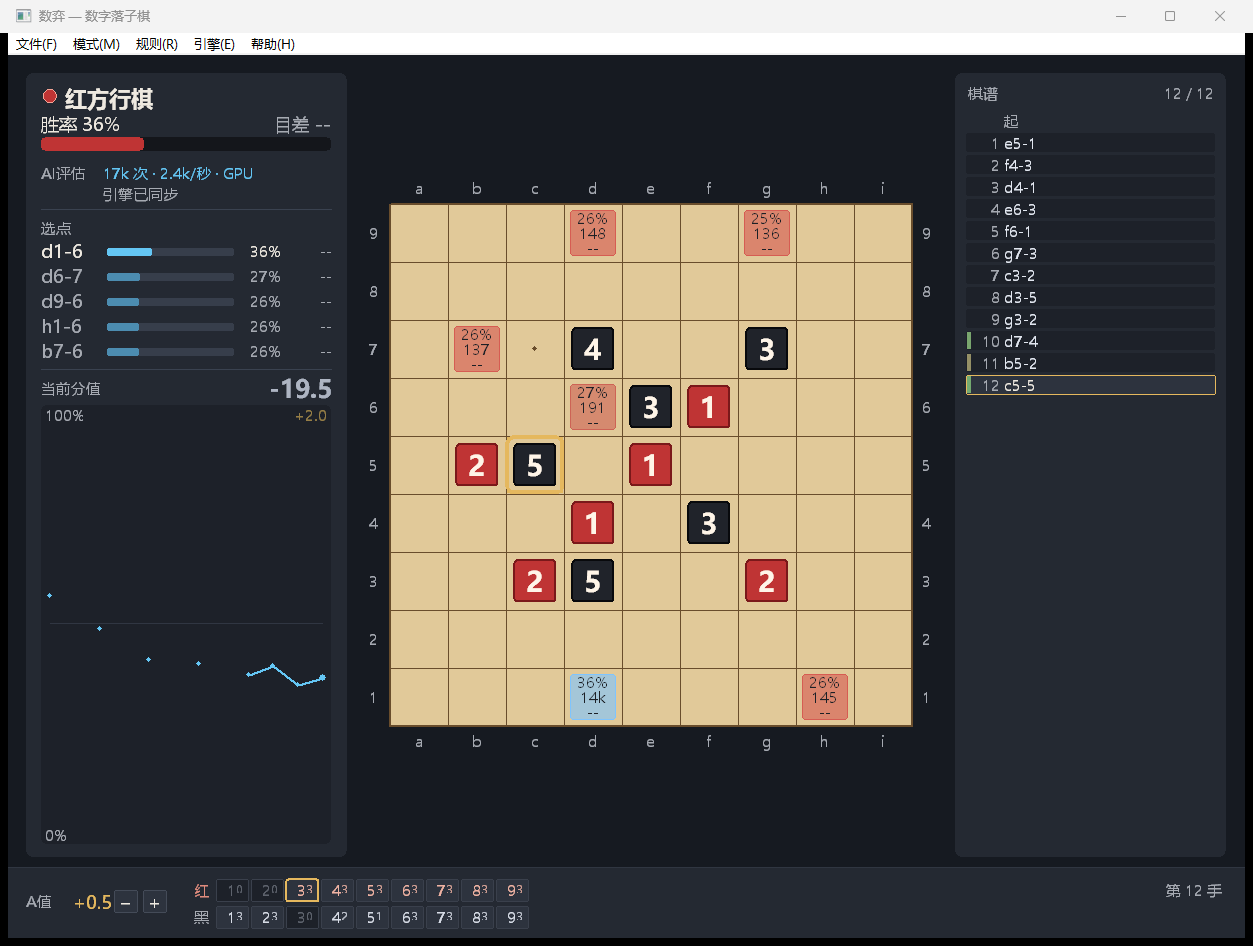
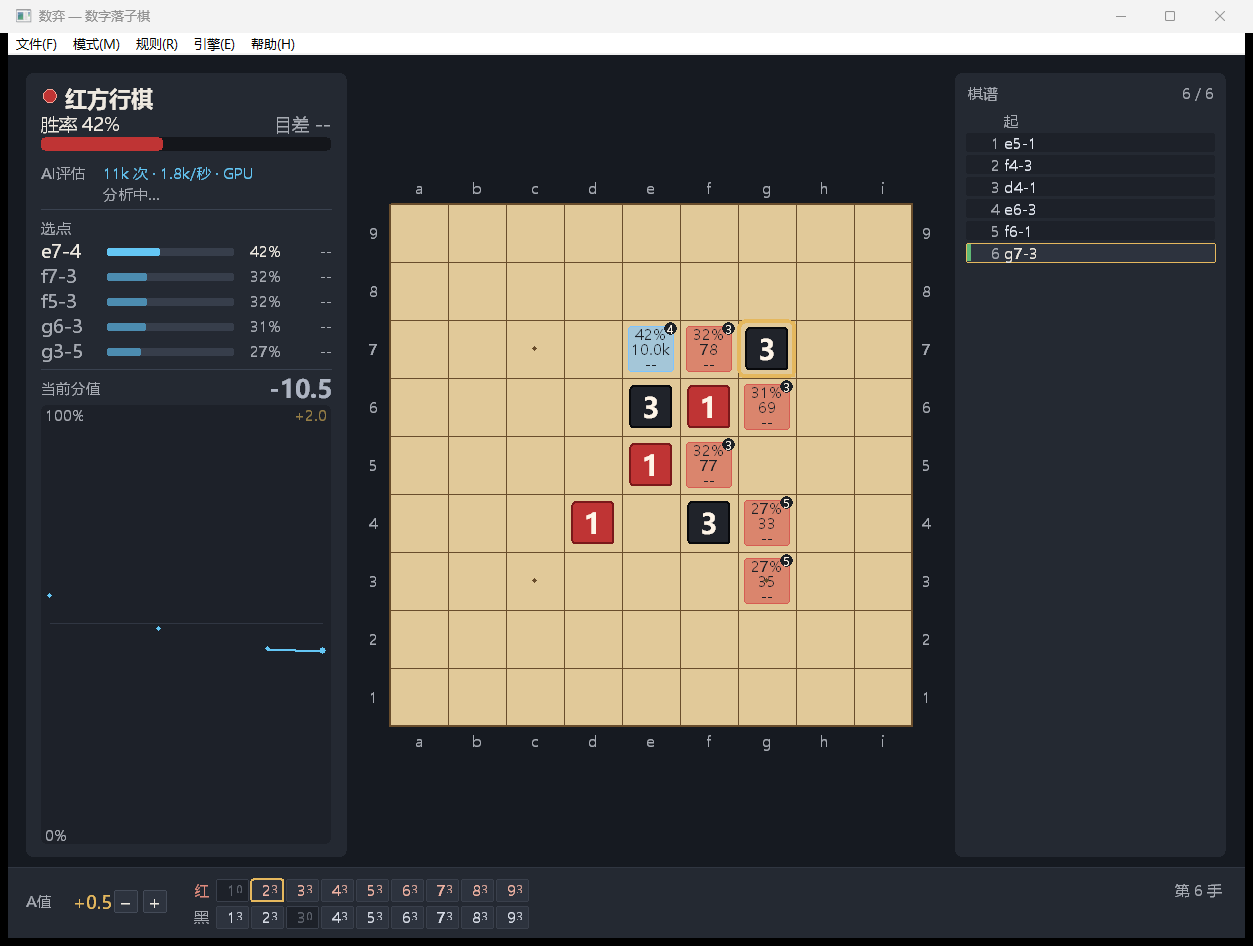
ui: the mark says which piece, and analysis accumulates by run instead of by size
**The board marks did not say which piece to play.** A mark sits on a cell and the
same cell takes any of nine numbers, so "42%" was half a move.  The number is now
a badge on the mark's top-right corner, the way the remaining count sits on the
chips: 42% with a small 3 means "e5-3, 42%".

**The replacement rule compared numbers from different trees.** "A new snapshot
replaces the cached one only when it searched at least as much" is only meaningful
inside one analysis run: a run is one search tree, and the tree is gone as soon as
the board is rebuilt.  Crossing runs, the rule kept the old, larger figure on the
panel -- 14,000 visits shown while the engine was at 300, and the number never
moving -- which is the opposite of additive.  Runs are tracked now: a snapshot may
be refused only when it is smaller *and* from the same run; otherwise the newer
numbers win, because they are the ones the search has.  Loaded numbers belong to no
run, so they give way to the first live one, as they should.

**Analysis continues where the tree allows.** Playing a move already sent `play`,
and the protocol carries the subtree of that move into the new position, so the
child's analysis continues from what the parent's search spent on it.  Stepping
forward in the record now does the same thing instead of rebuilding the board from
the root; going back still has to rebuild, and then the numbers honestly start
again.
[…]

diff --git a/ui/src/ui_win32.cpp b/ui/src/ui_win32.cpp
@@ -124,6 +124,11 @@ Position g_position;
 // Which record node the running analysis belongs to (-1: none).  The analysis is
 // cached *on that node*, so navigating away and back shows the same numbers.
 int g_analysisNode = -1;
+// Which analysis run `g_analysisNode` belongs to.  One run is one search tree:
+// it starts when the tree does and lives until the engine's board is rebuilt
+// (`clear_board`, a new position, a new process).  Visits are only comparable
+// inside a run, so nothing may be refused across two of them.
+int g_analysisRun = 0;
 
 constexpr double kDefaultAValue = 0.5;
 constexpr double kAValueStep = 0.5;
@@ -204,6 +209,7 @@ void openSettings();
 void goToNode(int id);
 int treeScrollFor(int id);
 void sendEngineStopIfRunning();
+bool sendEngine(const std::string& line);
 void startEngineAnalysis();
 bool loadRecordFromPath(const std::wstring& path);
 bool loadRecordFromText(const std::string& text);
@@ -388,25 +394,49 @@ void noteComputerToMove() {
     }
 }
 
-// Navigation: the same position, another node.  The engine follows by replaying
-// the line, and the panel shows that node's cached analysis instead of whatever
-// happened to be on screen before.
+// The move in the engine's own spelling ("a4 2"), the form `play` takes.
+std::string playCommand(Player side, Move move) {
+    std::string line = std::string("play ") + (side == Player::Red ? "red" : "black") + " ";
+    if (isPass(move)) return line + "pass";
+    return line + squareName(move.cell) + " " + std::to_string(static_cast<int>(move.number));
+}
+
+// Navigation: the same record, another node.  The panel shows that node's cached
+// analysis instead of whatever happened to be on screen before.
+//
+// Stepping forward is a *move* for the engine, not a new position: `play` lets it
+// carry the subtree it just searched into the child, so an analysis started there
+// continues from the visits the parent's search already spent on it.  Going up (or
+// jumping across the tree) has to rebuild the board from the root, which throws
+// the tree away -- the numbers then start again and the panel says so.
 void goToNode(int id) {
     if (!g_record.contains(id)) return;
     if (id == g_record.current()) {
         refresh();
         return;
     }
-    if (g_engineClient.running()) {
-        sendEngineStopIfRunning();
-    }
+    const int from = g_record.current();
+    sendEngineStopIfRunning();
+    // The move is spelled before the record moves: the side to move at the child
+    // is the opponent's, so depth is what says whose move it was.
+    const int ply = g_record.depth(id) - 1;
+    const Player mover = (ply % 2 == 0) ? Player::Red : Player::Black;
+    const Move move = g_record.node(id).move;
+    const bool forward = g_engineClient.running() && g_record.parentOf(id) == from;
     clearAnalysisState();
     g_record.select(id);
     rebuildPosition();
     g_enginePending = false;
     g_pendingReplyId.clear();
     g_thinking = false;
-    if (g_engineChoice != EngineChoice::Off && g_engineReady) syncEnginePosition();
+    if (g_engineChoice != EngineChoice::Off && g_engineReady) {
+        if (forward) {
+            sendEngine(playCommand(mover, move));
+            ++g_analysisRun;
+        } else {
+            syncEnginePosition();
+        }
+    }
     noteComputerToMove();
     refresh(true);
 }
@@ -419,11 +449,17 @@ void sendEngineStopIfRunning() {
 // position is rebuilt from it, then the engine is told -- one order everywhere,
 // so the three can never drift apart.
 void recordMove(Move move, Player mover) {
-    // Analysis is a mode, not a one-off: after a move it continues on the new
-    // position unless the user had stopped it.
-    const bool wasAnalyzing = g_analysisOn;
+    // Analysis is a mode, not a one-off: it continues on the new position unless
+    // the user had stopped it.  A run that reached the visit cap is not a stop --
+    // the new position has its own budget, and has not spent a visit of it.
+    const bool wasAnalyzing = g_analysisOn || g_analysisFinished;
     const int from = g_record.current();
     int id = g_record.play(from, move);
+    // `play` may carry the subtree of this move over into the new position, in
+    // which case the analysis continues where the parent's search left it.  It may
+    // also rebuild the tree.  Either way the numbers from here on belong to a new
+    // run, and are compared with that run's own figures, not with the old ones.
+    ++g_analysisRun;
     if (g_engineClient.running()) {
         g_engineClient.send("stop");
         g_enginePending = false;
@@ -502,11 +538,10 @@ void applyEngineAnalysis(int node, const std::string& payload) {
         return;
     }
     g_engineMessage = g_enginePending ? L"引擎思考中…" : L"分析中…";
-    // Analysis is additive: a snapshot replaces the cached one only when it
-    // searched at least as long.  Otherwise a restart (or a freshly loaded record)
-    // would blank the numbers the user just opened.
-    if (!g_record.contains(node) || !analysisOutranks(view, g_record.node(node).analysis)) return;
-    g_record.setAnalysis(node, std::move(view));
+    if (!g_record.contains(node)) return;
+    RecordNode& target = g_record.node(node);
+    if (!analysisReplaces(view, g_analysisRun, target.analysis, target.run)) return;
+    g_record.setAnalysis(node, std::move(view), g_analysisRun);
 }
 
 void startEngineAnalysis(int visits) {
@@ -553,6 +588,9 @@ void syncEnginePosition() {
     g_analysisFinished = false;
     sendEngine("stop");
     sendEngine("clear_board");
+    // The engine forgets its tree here, so every number it sends from now on
+    // belongs to a new run.
+    ++g_analysisRun;
     for (int id : g_record.line(g_record.current())) {
         const Move move = g_record.node(id).move;
         // The side alternates from Red at the root; a pass is a move too.
@@ -1732,6 +1770,16 @@ void drawAnalysisMarks(HDC dc, const Layout& layout, const std::vector<int>& ran
         const int cy = board.top + (8 - yOf(cellIndex)) * cell + cell / 2;
         const RECT mark{cx - radius, cy - radius, cx + radius, cy + radius};
         roundRect(dc, mark, corner, mixColor(kBoard, colour, 0.62), colour, std::max(1, scale(1)));
+        // Which piece to play is half of the move: the same cell takes nine
+        // numbers, and a mark that says "42%" says nothing about which of them.
+        // The number sits on the top-right corner, raised, the way the count sits
+        // on the chips: a superscript, not a fourth line.
+        const int dot = std::max(scale(6), radius / 3);
+        const int dotX = cx + radius - dot / 2;
+        const int dotY = cy - radius + dot / 2;
+        filledCircle(dc, dotX, dotY, dot, RGB(28, 32, 38));
+        drawTextAt(dc, std::to_wstring(info.move.number), dotX - dot, dotY - dot, dot * 2, dot * 2,
+                   g_fontTiny, RGB(255, 245, 232));
         int y = cy + textTop;
         drawTextAt(dc, formatWinRate(rate), cx - radius, y, radius * 2, rowHeight, g_fontSmall,
                    RGB(28, 32, 38));
@@ -2561,13 +2609,16 @@ void showGuide() {
     text += L"操作\n\n";
     text += L"· 数字键 1–9：选择落子的数字（也可以点下方棋子）。\n";
     text += L"· 点击棋盘：落子。\n";
-    text += L"· 空格：开始 / 暂停分析；分析到上限后再按一次会继续，不再限量。\n";
+    text += L"· 空格：开始 / 暂停分析；分析到上限后再按一次会继续，不再限量。开着分析落子，"
+            L"会在新局面自动接着算（到过上限也一样）。\n";
     text += L"· ↑ / ↓：在棋谱里上一步 / 下一步（↓ 走主干）。翻棋谱不会让电脑落子，"
             L"要它走一步用 引擎 → 让电脑走一步。\n";
     text += L"· Delete：删除当前着法及其后续，连同它们的分析。\n";
     text += L"· Ctrl+S：保存棋谱（等同 文件 → 保存棋谱…）。\n";
     text += L"· 左侧面板是分析的产物，右侧是棋谱：每一着一行，换个走法会在那一手后面缩进出一段"
             L"变着，回到旧行时原来的分析还在。\n";
+    text += L"· 棋盘上每个分析标记：胜率 / 访问数 / 预期终局分，右上角的上标是要落的那颗子的数字"
+            L"（同一个格子能下九个数字）。\n";
     text += L"· 棋谱每行左边的小色块是这一步相对上一步的评估：蓝 = 比之前明显更好，"
             L"绿 = 不差，红 = 变差。\n";
     text += L"· 分析会一起存进棋谱；载入棋谱时，每个局面的分析跟着回来。\n";

diff --git a/ui/tests/test_engine_view.cpp b/ui/tests/test_engine_view.cpp
@@ -191,26 +191,29 @@ void testDistinctSymmetricCells() {
           "an asymmetric position keeps every cell");
 }
 
-// The window keeps what the engine said about a position, so a snapshot has to
-// earn the right to replace it: re-opening a record or restarting the engine
-// begins again from a handful of visits.
-void testAnalysisOutranks() {
+// Visits are only comparable inside one analysis run: a run is one search tree, and
+// a run that starts after the board was rebuilt begins again from zero.  Refusing a
+// smaller snapshot across runs froze the panel on 14,000 visits while the engine
+// was at 300.
+void testAnalysisReplaces() {
     EngineAnalysisView cached;
     check(parseAnalysis(kAnalysis, cached, nullptr), "fixture parses");
     EngineAnalysisView richer = cached;
     richer.visits = 4096;
-    check(analysisOutranks(richer, cached), "more visits replaces fewer");
-    check(analysisOutranks(cached, cached), "the same effort replaces itself");
+    check(analysisReplaces(richer, 7, cached, 7), "more visits in the same run replaces fewer");
+    check(analysisReplaces(cached, 7, cached, 7), "the same snapshot replaces itself");
     EngineAnalysisView restart = cached;
     restart.visits = 12;
-    check(!analysisOutranks(restart, cached), "a restart does not blank a richer analysis");
-    check(!analysisOutranks(EngineAnalysisView{}, cached), "an empty snapshot replaces nothing");
+    check(!analysisReplaces(restart, 7, cached, 7), "a smaller snapshot in the same run is stale");
+    check(analysisReplaces(restart, 8, cached, 7), "a new run replaces the old numbers whatever they were");
+    check(analysisReplaces(restart, 8, cached, -1), "numbers from a file belong to no run");
+    check(!analysisReplaces(EngineAnalysisView{}, 8, cached, 7), "an empty snapshot replaces nothing");
     EngineAnalysisView solved = restart;
     solved.proven = true;
-    check(analysisOutranks(solved, cached), "a proof beats a larger sample");
+    check(analysisReplaces(solved, 7, cached, 7), "a proof beats a larger sample in the same run");
     EngineAnalysisView provedCached = cached;
     provedCached.proven = true;
-    check(!analysisOutranks(solved, provedCached), "a proof does not replace a larger proof");
+    check(!analysisReplaces(solved, 7, provedCached, 7), "a proof does not replace a larger proof");
 }
 
 void testBrokenInput() {
@@ -239,7 +242,7 @@ int main() {
     testRankAnalysisCells();
     testRankTiedAnalysisCells();
     testDistinctSymmetricCells();
-    testAnalysisOutranks();
+    testAnalysisReplaces();
     testBrokenInput();
     testMoveTokens();
     if (failures == 0) std::printf("engine view tests passed\n");

diff --git a/ui/include/engine_view.h b/ui/include/engine_view.h
@@ -73,10 +73,12 @@ Move parseMoveToken(const std::string& text);
 // Parses the JSON object of an `info` line (without the `info ` prefix).
 bool parseAnalysis(const std::string& json, EngineAnalysisView& out, std::string* error);
 
-// Whether a fresh snapshot may replace the one cached for the position.  The
-// window keeps what the engine said about a position after the user moves on, so
-// a snapshot that searched less must not overwrite it: re-opening a record that
-// carries numbers, or restarting the engine, begins again from a few visits.
-bool analysisOutranks(const EngineAnalysisView& fresh, const EngineAnalysisView& cached);
+// Whether a fresh snapshot may replace the one cached for a position.  Visits are
+// only comparable inside one analysis run: a run is one search tree, and the tree
+// is gone once the board is rebuilt, so the next run begins again from zero.  A
+// snapshot that searched less is therefore stale only when it comes from the same
+// run; across runs the newer numbers are the ones the search actually has.
+bool analysisReplaces(const EngineAnalysisView& fresh, int freshRun,
+                      const EngineAnalysisView& cached, int cachedRun);
 
 } // namespace shuyi

diff --git a/ui/include/game_record.h b/ui/include/game_record.h
@@ -36,6 +36,11 @@ struct RecordNode {
     // What the engine said about *this* position, in the side-to-move
     // perspective it was sent in.  Invalid until an analysis arrived.
     EngineAnalysisView analysis;
+    // Which analysis run produced `analysis` (-1: not from a run of this session,
+    // i.e. nothing known yet or loaded from a file).  Numbers from two runs are
+    // not comparable: a run that starts after the search tree was rebuilt begins
+    // again from zero visits.
+    int run = -1;
 };
 
 // The move as the record and the window spell it: "a4-2", "pass".
@@ -77,7 +82,7 @@ public:
     // deleted.  Returns false when nothing was removed.
     bool erase(int id);
 
-    void setAnalysis(int id, EngineAnalysisView analysis);
+    void setAnalysis(int id, EngineAnalysisView analysis, int run = -1);
 
     // PGN-like text: a header line, the rule set, then the moves.  Variations are
     // written inline in parentheses, right after the move they replace.  The rule

diff --git a/ui/src/game_record.cpp b/ui/src/game_record.cpp
@@ -174,6 +174,7 @@ bool GameRecord::erase(int id) {
         target.parent = newParent;
         target.move = nodes_[static_cast<std::size_t>(old)].move;
         target.analysis = nodes_[static_cast<std::size_t>(old)].analysis;
+        target.run = nodes_[static_cast<std::size_t>(old)].run;
         for (int child : nodes_[static_cast<std::size_t>(old)].children) {
             if (child == id) continue;
             const int copied = copy(child, created);
@@ -194,9 +195,11 @@ bool GameRecord::erase(int id) {
     return true;
 }
 
-void GameRecord::setAnalysis(int id, EngineAnalysisView analysis) {
+void GameRecord::setAnalysis(int id, EngineAnalysisView analysis, int run) {
     if (!contains(id)) return;
-    nodes_[static_cast<std::size_t>(id)].analysis = std::move(analysis);
+    RecordNode& node = nodes_[static_cast<std::size_t>(id)];
+    node.analysis = std::move(analysis);
+    node.run = run;
 }
 
 void GameRecord::writeLineText(std::string& out, int node) const {

diff --git a/ui/src/engine_protocol.cpp b/ui/src/engine_protocol.cpp
@@ -219,10 +219,15 @@ bool parseAnalysis(const std::string& json, EngineAnalysisView& out, std::string
     return true;
 }
 
-bool analysisOutranks(const EngineAnalysisView& fresh, const EngineAnalysisView& cached) {
+bool analysisReplaces(const EngineAnalysisView& fresh, int freshRun,
+                      const EngineAnalysisView& cached, int cachedRun) {
     if (!fresh.valid) return false;
     if (!cached.valid) return true;
-    // A solved line is exact whatever it cost; a larger sample beats a smaller one.
+    // Another run: the search tree behind the cached numbers was rebuilt, so the
+    // two are not comparable and the newer ones are the truth.
+    if (freshRun != cachedRun) return true;
+    // Same run: the tree only grows, so a smaller snapshot is an older one -- a
+    // proof excepted, which is exact however little it cost.
     if (fresh.proven != cached.proven) return fresh.proven;
     return fresh.visits >= cached.visits;
 }

diff --git a/ui/README.md b/ui/README.md
@@ -42,6 +42,8 @@ tests/a_value_smoke.py     驱动窗口检查设置与 A值（ctest: shuyi_ui_a_
   （这次的搜索花了多少、多快，例如 `4.2k 次 · 1.6k/秒 · GPU`；模型是用户自己选的，
   摆在面板里只是复述他的选择）、选点列表（每个着法一行，带胜率条与分值）、当前分值
   （原“若现在终局”），以及这条线上已分析局面的胜率/目差折线（始终红方视角，未分析的点断开）。
+  棋盘上的每个标记是“落这一手会怎样”：上排胜率、中排访问数、下排预期终局分，**右上角的上标是
+  要落的那颗子的数字**——同一个格子能下九个数字，只写“42%”没说该下哪一个。
 * **右侧是棋谱**，排得像一张棋谱纸：一行一手，行首是手数，主干往下接着走；换一个走法会在那一手
   后面缩进出一段变着，读完变着再回到主干。不按深度分列，是因为 54 手就是 54 列，而这块面板只有
   246 px 宽。每行左边有一小块颜色，是“这一手比上一步的评估好多少”：明显更好是蓝色（引擎当时
@@ -115,8 +117,20 @@ moves e5-1 a5-1 (c3-2 d4-3) e6-4
   只是没有数字。
 * `shuyi.exe --open game.syp` 可以按这个格式直接打开（也便于把 `.syp` 关联到本程序）。
 
-分析是**附加**的：某个局面已经有分析时，新结果只有在搜得不少于它的时候才覆盖它。因此重开引擎、
-或者打开一个已经带着数字的棋谱，都不会让面板先空一下再慢慢爬回来。
+## 分析怎么累积
+
+分析**按局面**存在棋谱里，所以回到哪一个局面就看到那一次的结论。往前继续时，累积来自搜索树：
+
+* **落子之后**：界面发的是 `play`，协议规定引擎会把这一手的子树带进新局面。所以新局面的分析
+  从父局面已经花在这一手上的访问继续，不是从 0 开始；如果引擎的树已经没有这一手（换过 A值、
+  重开过引擎），它就从 0 重新开始，面板照实显示。往后翻一手（`↓`）走的也是这条路。
+* **上翻或跳到别的分支**：只能 `clear_board` 重放，搜索树丢掉，数字从头开始。这是协议决定的，
+  界面不假装还有 —— 也正因为如此，同一局面不该拿旧的大数字压住新的小数字：那会让面板停在
+  14,000 次访问，而引擎实际只算了 300 次。
+* 所以覆盖规则按**一次搜索**（run）划分：同一次搜索里，数字只增不减，小的快照就是旧的，丢掉；
+  两次搜索之间的数字不可比，新的那份直接覆盖。落子、换 A值、重放、换引擎都会开始新的一次。
+* 分析是“模式”：落子后自动在新局面继续。跑到访问上限而暂停也算继续——新局面有它自己的一份
+  预算，还没有花掉，所以会自动开始。
 
 ## 测试用的无界面探针
 
